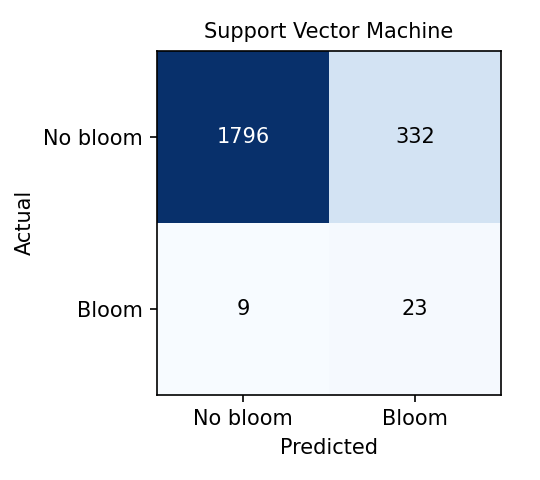
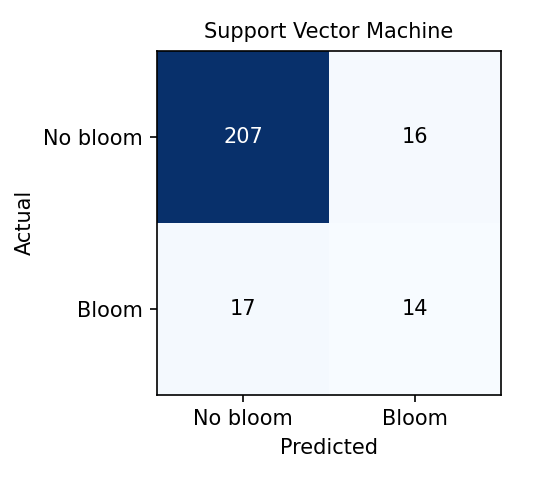
Retrain bloom model on all five probes plus calculated salinity.
The old model learned from 5 bloom events in a pond dataset with ORP
estimated from dissolved oxygen. USGS 01400500 (Raritan River, NJ) records
every ShellSafe probe plus chlorophyll; prepare_raritan.py builds daily
means, calculates salinity from EC and temperature with app/salinity.py,
and labels days with chlorophyll >= 1.5 RFU (90 bloom days, 51 weeks).

Random Forest is again selected: test F1 0.67, precision 0.61, and it won
15 of 25 repeated grouped CV folds. The Model page now shows the training
source, precision, and a stand-in data warning. Salinity predictions
require calibrated EC and temperature.

diff --git a/app/templates/ml_model.html b/app/templates/ml_model.html
@@ -1,7 +1,7 @@
 {% extends "dashboard_base.html" %}
 
 {% macro pct(v) %}{{ '%.0f'|format(v * 100) }}%{% endmacro %}
-{% macro feature_name(key) %}{{ {'temperature':'Temperature','ph':'pH','turbidity':'Turbidity','orp':'ORP','ec':'EC'}.get(key, key) }}{% endmacro %}
+{% macro feature_name(key) %}{{ {'temperature':'Temperature','ph':'pH','turbidity':'Turbidity','orp':'ORP','ec':'EC','salinity':'Salinity'}.get(key, key) }}{% endmacro %}
 
 {% block content %}
 <div class="page-head">
@@ -39,12 +39,20 @@
         <div><dt>Model</dt><dd>{{ best.name }}</dd></div>
         <div><dt>Accuracy</dt><dd>{{ pct(best.test.accuracy) }}</dd></div>
         <div><dt>Bloom catch rate</dt><dd>{{ pct(best.test.recall) }}</dd></div>
+        <div><dt>Bloom alerts that were real</dt><dd>{{ pct(best.test.precision) }}</dd></div>
         <div><dt>Overall score</dt><dd>{{ pct(best.test.f1) }}</dd></div>
         <div>
             <dt>Inputs</dt>
             <dd>{% for f in metrics.features %}{{ feature_name(f) }}{% if not loop.last %}, {% endif %}{% endfor %}</dd>
         </div>
+        <div><dt>Trained on</dt><dd>{{ metrics.source }}</dd></div>
     </dl>
+    {% if metrics.proxy or metrics.demo %}
+    <p class="muted" style="margin-top: 12px;">
+        {% if metrics.demo %}Demo model: its labels came from the alert thresholds, so these scores are not real results.
+        {% else %}These scores come from a public stand-in dataset, not this station's water. Retrain on this station's field observations before relying on them.{% endif %}
+    </p>
+    {% endif %}
 </section>
 
 <section class="panel" aria-labelledby="cardsTitle">

diff --git a/ml/prepare_raritan.py b/ml/prepare_raritan.py
@@ -1,0 +1,188 @@
+"""
+Build a labeled training CSV with all five ShellSafe probes plus salinity.
+
+Source: USGS 01400500, Raritan River at Manville, New Jersey (public domain).
+It is one of the few public stations whose sonde records every ShellSafe
+probe (temperature, pH, specific conductance, turbidity and ORP) together
+with chlorophyll. Data come from the USGS Water Data API:
+https://api.waterdata.usgs.gov/ogcapi/v0/collections/continuous
+
+The 15-minute record is averaged into local days. Salinity is calculated
+from EC and temperature with app/salinity.py, the same PSS-78 formula the
+web app and firmware use, so the model sees salinity exactly as the live
+system computes it.
+
+Label: a day is bloom when its mean chlorophyll fluorescence is at or above
+CHL_BLOOM_RFU (see the constant for why). Chlorophyll is only used for the
+label, never as a model input.
+
+Caveat: this is fresh river water (EC about 190-1,800 uS/cm, salinity under
+1 ppt). Coastal ShellSafe readings sit far above that range, so the model's
+EC and salinity splits will not transfer to the station. The Model page
+shows this note.
+
+Output: ml/data/raritan_bloom.csv
+Then:   python ml/train.py --dataset ml/data/raritan_bloom.csv \
+            --features temperature,ph,ec,turbidity,orp,salinity
+"""
+
+import importlib.util
+import json
+import os
+import sys
+import time
+import urllib.parse
+import urllib.request
+
+import pandas as pd
+
+HERE = os.path.dirname(os.path.abspath(__file__))
+ROOT = os.path.dirname(HERE)
+OUT = os.path.join(HERE, 'data', 'raritan_bloom.csv')
+RAW = os.path.join(HERE, 'data', 'raw', 'raritan')
+SITE = 'USGS-01400500'
+API = 'https://api.waterdata.usgs.gov/ogcapi/v0/collections/continuous/items'
+LOCAL_TZ = 'America/New_York'
+# ORP has been recorded here since April 2022.
+START = pd.Timestamp('2022-04-01')
+END = pd.Timestamp.now().normalize()
+
+PARAMS = {
+    'temperature': '00010',   # degC
+    'ec': '00095',            # specific conductance at 25 degC, uS/cm
+    'ph': '00400',
+    'turbidity': '63680',     # FNU (comparable to the probe's NTU)
+    'orp': '00090',           # mV
+    'chlorophyll_rfu': '32315',
+    'phycocyanin_rfu': '32321',
+}
+VALID = {
+    'temperature': (0, 40),
+    'ec': (0, 5000),
+    'ph': (5, 10.5),
+    'turbidity': (0, 1000),
+    'orp': (-500, 800),
+    'chlorophyll_rfu': (0, 1000),
+    'phycocyanin_rfu': (0, 1000),
+}
+# A day counts when every probe logged at least half a day of 15-minute values.
+MIN_SAMPLES_PER_DAY = 48
+# Chlorophyll here is fluorescence in RFU, which has no fixed ug/L conversion,
+# so the WHO ug/L levels used for the Charles River cannot be applied. A day is
+# labeled bloom when its mean is at least this many RFU: about three times the
+# typical day (median 0.48 RFU over 2022-2026), roughly the top 6% of days.
+CHL_BLOOM_RFU = 1.5
+NOTE_TEMPLATE = (
+    '# proxy: USGS 01400500 Raritan River at Manville NJ, daily means of the public '
+    '15-minute sonde, {start} to {end}. All five probes (temperature, pH, EC, '
+    'turbidity, ORP) are measured; salinity is calculated from EC and temperature '
+    '(PSS-78). Bloom means daily mean chlorophyll fluorescence >= {thr} RFU. '
+    'Fresh river water: EC and salinity are far below coastal readings. Not this station.'
+)
+
+
+def _salinity_fn():
+    path = os.path.join(ROOT, 'app', 'salinity.py')
+    spec = importlib.util.spec_from_file_location('shellsafe_salinity', path)
+    module = importlib.util.module_from_spec(spec)
+    spec.loader.exec_module(module)
+    return module.salinity_psu
+
+
+def _get_json(url: str) -> dict:
+    request = urllib.request.Request(url, headers={'User-Agent': 'ShellSafe-training'})
+    for attempt in range(4):
+        try:
+            with urllib.request.urlopen(request, timeout=120) as resp:
+                return json.load(resp)
+        except Exception as exc:
+            if attempt == 3:
+                raise
+            print(f'    retry after {exc.__class__.__name__}')
+            time.sleep(5 * (attempt + 1))
+
+
+def _quarter(name: str, code: str, start: pd.Timestamp) -> pd.DataFrame:
+    end = min(start + pd.DateOffset(months=3), END)
+    cached = os.path.join(RAW, f'{code}_{start:%Y-%m}.csv')
+    if os.path.exists(cached):
+        return pd.read_csv(cached)
+    query = urllib.parse.urlencode({
+        'f': 'json',
+        'monitoring_location_id': SITE,
+        'parameter_code': code,
+        'time': f'{start:%Y-%m-%dT00:00:00Z}/{end:%Y-%m-%dT00:00:00Z}',
+        'limit': 50000,
+        'properties': 'time,value',
+    })
+    url, rows = f'{API}?{query}', []
+    while url:
+        page = _get_json(url)
+        rows += [f['properties'] for f in page.get('features', [])]
+        url = next((link['href'] for link in page.get('links', []) if link.get('rel') == 'next'), None)
+    frame = pd.DataFrame(rows, columns=['time', 'value'])
+    frame.to_csv(cached, index=False)
+    # Only cache finished quarters; the current one keeps growing.
+    if end >= END:
+        os.remove(cached)
+    print(f'  {name:16s} {start:%Y-%m}  {len(frame)} rows')
+    return frame
+
+
+def _daily(name: str, code: str) -> pd.DataFrame:
+    parts, start = [], START
+    while start < END:
+        parts.append(_quarter(name, code, start))
+        start += pd.DateOffset(months=3)
+    raw = pd.concat(parts, ignore_index=True)
+    raw['value'] = pd.to_numeric(raw['value'], errors='coerce')
+    low, high = VALID[name]
+    raw = raw[raw['value'].between(low, high)].copy()
+    raw['day'] = pd.to_datetime(raw['time'], utc=True).dt.tz_convert(LOCAL_TZ).dt.strftime('%Y-%m-%d')
+    daily = raw.groupby('day')['value'].agg(['mean', 'size'])
+    daily = daily[daily['size'] >= MIN_SAMPLES_PER_DAY]['mean'].rename(name)
+    print(f'{name}: {len(daily)} usable days')
+    return daily
+
+
+def main():
+    os.makedirs(RAW, exist_ok=True)
+    days = pd.concat([_daily(name, code) for name, code in PARAMS.items()], axis=1)
+    days = days.dropna(subset=['temperature', 'ph', 'ec', 'turbidity', 'orp', 'chlorophyll_rfu'])
+    salinity_psu = _salinity_fn()
+    days['salinity'] = [salinity_psu(ec, t) for ec, t in zip(days['ec'], days['temperature'])]
+    days = days.dropna(subset=['salinity'])
+
+    chl = days['chlorophyll_rfu']
+    print('\nDaily mean chlorophyll (RFU) percentiles:')
+    print(chl.quantile([0.5, 0.75, 0.9, 0.95, 0.98, 0.99]).round(2).to_string())
+    if CHL_BLOOM_RFU is None:
+        sys.exit('\nSet CHL_BLOOM_RFU from the distribution above, then run again.')
+
+    out = days.reset_index().rename(columns={'index': 'day'})
+    stamp = pd.to_datetime(out['day']).dt.tz_localize(LOCAL_TZ) + pd.Timedelta(hours=12)
+    out['time'] = stamp.dt.tz_convert('UTC').dt.strftime('%Y-%m-%dT%H:%M:%SZ')
+    # Hold out whole weeks: neighbouring days are nearly identical.
+    iso = pd.to_datetime(out['day']).dt.isocalendar()
+    out['group'] = iso['year'].astype(str) + '-W' + iso['week'].astype(str).str.zfill(2)
+    out['label'] = (out['chlorophyll_rfu'] >= CHL_BLOOM_RFU).map({True: 'bloom', False: 'no_bloom'})
+    cols = ['time', 'temperature', 'ph', 'ec', 'turbidity', 'orp', 'salinity',
+            'chlorophyll_rfu', 'phycocyanin_rfu', 'label', 'group']
+    out = out[cols].round(4)
+
+    counts = out['label'].value_counts().to_dict()
+    bloom_weeks = out.loc[out['label'] == 'bloom', 'group'].nunique()
+    print(f"\nDays: {len(out)}  bloom {counts.get('bloom', 0)}  no_bloom {counts.get('no_bloom', 0)}"
+          f"  bloom weeks {bloom_weeks}")
+    if min(counts.get('bloom', 0), counts.get('no_bloom', 0)) < 10:
+        sys.exit('Not enough days of both classes to train.')
+
+    note = NOTE_TEMPLATE.format(start=out['time'].min()[:10], end=out['time'].max()[:10], thr=CHL_BLOOM_RFU)
+    with open(OUT, 'w', encoding='utf-8', newline='') as fh:
+        fh.write(note + '\n')
+        out.to_csv(fh, index=False)
+    print(f'Wrote {OUT}')
+
+
+if __name__ == '__main__':
+    main()

diff --git a/ml/train.py b/ml/train.py
@@ -54,7 +54,8 @@ MODEL_DIR = os.path.join(ROOT, 'app', 'ml_models')
 REPORT_DIR = os.path.join(ROOT, 'ml', 'reports')
 LOCAL_TZ = 'Asia/Manila'
 
-ALL_FEATURES = ['temperature', 'ph', 'turbidity', 'orp', 'ec']
+# salinity is calculated from ec and temperature (app/salinity.py, PSS-78).
+ALL_FEATURES = ['temperature', 'ph', 'turbidity', 'orp', 'ec', 'salinity']
 SEED = 42
 
 # Same limits as the firmware's SMS alerts (shellsafev2.ino). Used only by
@@ -323,7 +324,7 @@ def main():
     parser.add_argument('--proxy', action='store_true',
                         help='labels are a public stand-in, not this station (also set by a # proxy: header)')
     parser.add_argument('--features', default=','.join(ALL_FEATURES),
-                        help='comma-separated model inputs (default: all five probes)')
+                        help='comma-separated model inputs (default: all five probes plus salinity)')
     args = parser.parse_args()
 
     features = [f.strip() for f in args.features.split(',') if f.strip()]

diff --git a/app/ml_service.py b/app/ml_service.py
@@ -27,7 +27,12 @@ FEATURE_LABELS = {
     'turbidity': 'Turbidity',
     'orp': 'ORP',
     'ec': 'EC',
+    'salinity': 'Salinity',
 }
+
+# Salinity is calculated from EC and temperature, so it is only as good as
+# those two probes' calibration.
+_DERIVED_FROM = {'salinity': ('ec', 'temperature')}
 
 _cache: Dict[str, Dict] = {}
 
@@ -128,7 +133,8 @@ def predict_bloom(reading: Optional[Dict]) -> Dict:
     for key in model['features']:
         value = reading.get(key)
         connected = reading.get(f'{key}_connected', value is not None)
-        if value is None or not connected or calibrated.get(key) is False:
+        uncalibrated = any(calibrated.get(k) is False for k in _DERIVED_FROM.get(key, (key,)))
+        if value is None or not connected or uncalibrated:
             missing.append(FEATURE_LABELS.get(key, key))
         else:
             x.append(float(value))

diff --git a/ml/README.md b/ml/README.md
@@ -67,6 +67,15 @@ python ml/train.py --dataset ml/data/aquasense_bloom.csv --features temperature,
 
 Do not merge this file with the river dataset. The bloom labels are defined differently.
 
+**All five probes (current model).** USGS 01400500, Raritan River at Manville NJ, records every ShellSafe probe (temperature, pH, specific conductance, turbidity, ORP) plus chlorophyll and phycocyanin. `prepare_raritan.py` downloads the 15-minute sonde record from the USGS Water Data API (cached in `ml/data/raw/raritan/`), averages each local day, and calculates salinity from EC and temperature with `app/salinity.py` (PSS-78, the same formula as the web app and firmware). A day is `bloom` when mean chlorophyll fluorescence is at least 1.5 RFU, about three times a typical day. RFU has no fixed µg/L conversion, so the WHO levels do not apply. Whole ISO weeks are held out as groups.
+
+```
+python ml/prepare_raritan.py
+python ml/train.py --dataset ml/data/raritan_bloom.csv --features temperature,ph,ec,turbidity,orp,salinity
+```
+
+This is fresh river water: EC is about 130-1,400 µS/cm and salinity under 1 ppt. Coastal readings sit far above that, so the model's EC and salinity splits do not transfer to the station.
+
 ### Other data sources
 
 Any CSV with the feature columns and a `label` column also works, for example a published labeled water-quality dataset:
